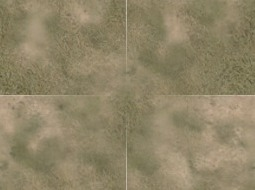
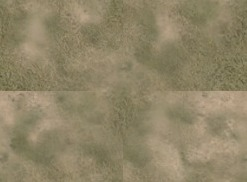
Add files via upload

diff --git a/index.html b/index.html
@@ -17,7 +17,11 @@ body {
     font-size: 16px;
     margin: 0;
     min-width: 800px;
-    padding: 130px 0 20px 0;
+    padding: 130px 0 0 0;
+    min-height: 100vh;
+    box-sizing: border-box;
+    display: flex;
+    flex-direction: column;
 }
 #shapka {
     position: fixed;
@@ -82,20 +86,20 @@ a:visited { color: #8a3a14; }
 td.sidebar a, td.content a { color: #ffd47a; }
 td.sidebar a:visited, td.content a:visited { color: #f0b866; }
 td.sidebar a:hover, td.content a:hover { color: #fff6e0; background-color: #6a3a12; }
-td.content .box-inset a { color: #b8470a; text-shadow: none; }
-td.content .box-inset a:visited { color: #8a3a14; }
-td.content .box-inset a:hover { color: #7a2a00; background-color: #ffd9a0; }
+td.content .box-inset a { color: #5e1a00; text-shadow: none; }
+td.content .box-inset a:visited { color: #4a1400; }
+td.content .box-inset a:hover { color: #1c1008; background-color: #e8d9a8; }
 td.content a.btn-old, td.content a.btn-old:visited { color: #3b2410; text-shadow: none; }
 td.content a.btn-old:hover { color: #3b2410; background-color: #ffb866; }
 
 .box-inset {
     background-color: #d8c89a;
-    background-image: linear-gradient(rgba(255,243,220,0.45),rgba(255,243,220,0.45)), url("bg5.jpg"); /* мозаика плашки «О сути раздела» */
+    background-image: url("bg5.jpg"); /* мозаика плашки «О сути раздела» */
     background-repeat: repeat;
     border: 2px inset #d9954a;
     padding: 10px 14px;
     margin: 16px 0;
-    color: #3b2410;
+    color: #1c1008;
     text-shadow: none;
 }
 .btn-old {
@@ -111,20 +115,36 @@ td.content a.btn-old:hover { color: #3b2410; background-color: #ffb866; }
 .btn-old:visited { color: #3b2410; }
 .btn-old:hover { background-color: #ffb866; color: #3b2410; }
 .btn-old:active { border-style: inset; }
+.zemlya {
+    min-width: 800px;
+    height: 189px;
+    margin-top: auto;
+    flex-shrink: 0;
+    background-color: #77756e;
+    background-image: url("bg7.jpg"); /* подложка внизу: мозаика по горизонтали */
+    background-repeat: repeat-x;
+    background-position: left bottom;
+    -webkit-mask-image: linear-gradient(to bottom, transparent 0, #000 50px);
+    mask-image: linear-gradient(to bottom, transparent 0, #000 50px);
+}
 .podval {
     width: 760px;
-    padding: 22px 0 30px 0;
+    margin: 0 auto;
+    padding-top: 104px;
     text-align: center;
     font-family: Tahoma, Arial, sans-serif;
     font-size: 11px;
     line-height: 1.8;
-    color: #5a2a08;
+    color: #fff3dc;
+    text-shadow: 1px 1px 0 #1a1208;
 }
-.podval a { color: #7a2a00; }
+.podval a { color: #ffd47a; }
 .plashka {
     background-color: #3a3c40;
-    background-image: linear-gradient(rgba(15,10,5,0.55),rgba(15,10,5,0.55)), url("bg6.jpg"); /* мозаика плашек с надписями */
-    background-repeat: repeat;
+    background-image: linear-gradient(rgba(15,10,5,0.55),rgba(15,10,5,0.55)), url("bg6.jpg"); /* рельсы: одна картинка, подогнана под размер плашки */
+    background-repeat: no-repeat;
+    background-size: 100% 100%, cover;
+    background-position: 0 0, center;
     border: 2px inset #8c8470;
     padding: 9px 11px;
     margin: 0 0 12px 0;
@@ -142,7 +162,7 @@ td.content a.btn-old:hover { color: #3b2410; background-color: #ffb866; }
     <a href="index.html"><img src="header.jpg" width="760" height="110" alt="IMAGINALIS.RU"></a>
 </div>
 
-<center>
+<center style="margin-bottom:30px;">
 <table class="main" cellpadding="0" cellspacing="0">
     <tr>
         <td class="sidebar">
@@ -178,11 +198,14 @@ td.content a.btn-old:hover { color: #3b2410; background-color: #ffb866; }
         </td>
     </tr>
 </table>
+</center>
+
+<div class="zemlya">
 <div class="podval">
     &copy; imaginalis.ru &bull; Дочерний <a href="https://hermeticum.ru">hermeticum.ru</a><br>
     <i>Образы составляют само психическое в его имагинативной видимости, то есть самоценны.</i>
 </div>
-</center>
+</div>
 
 </body>
 </html>
